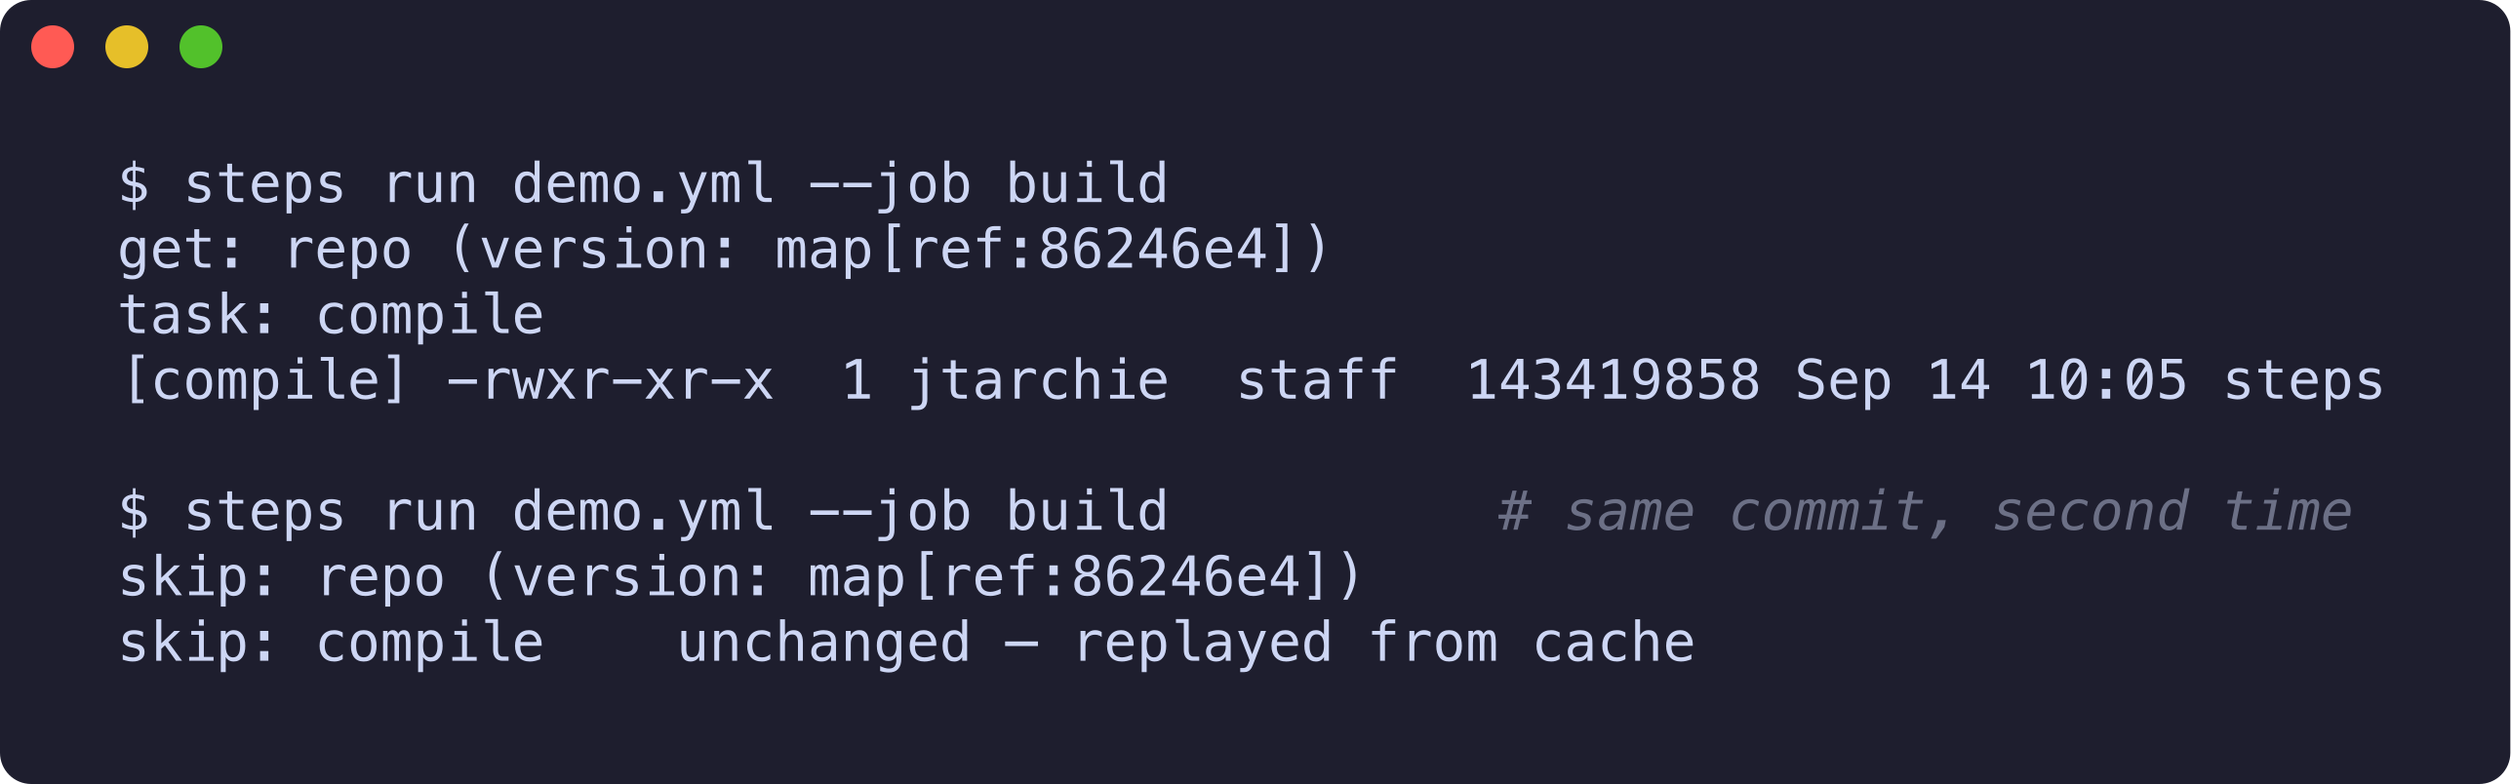
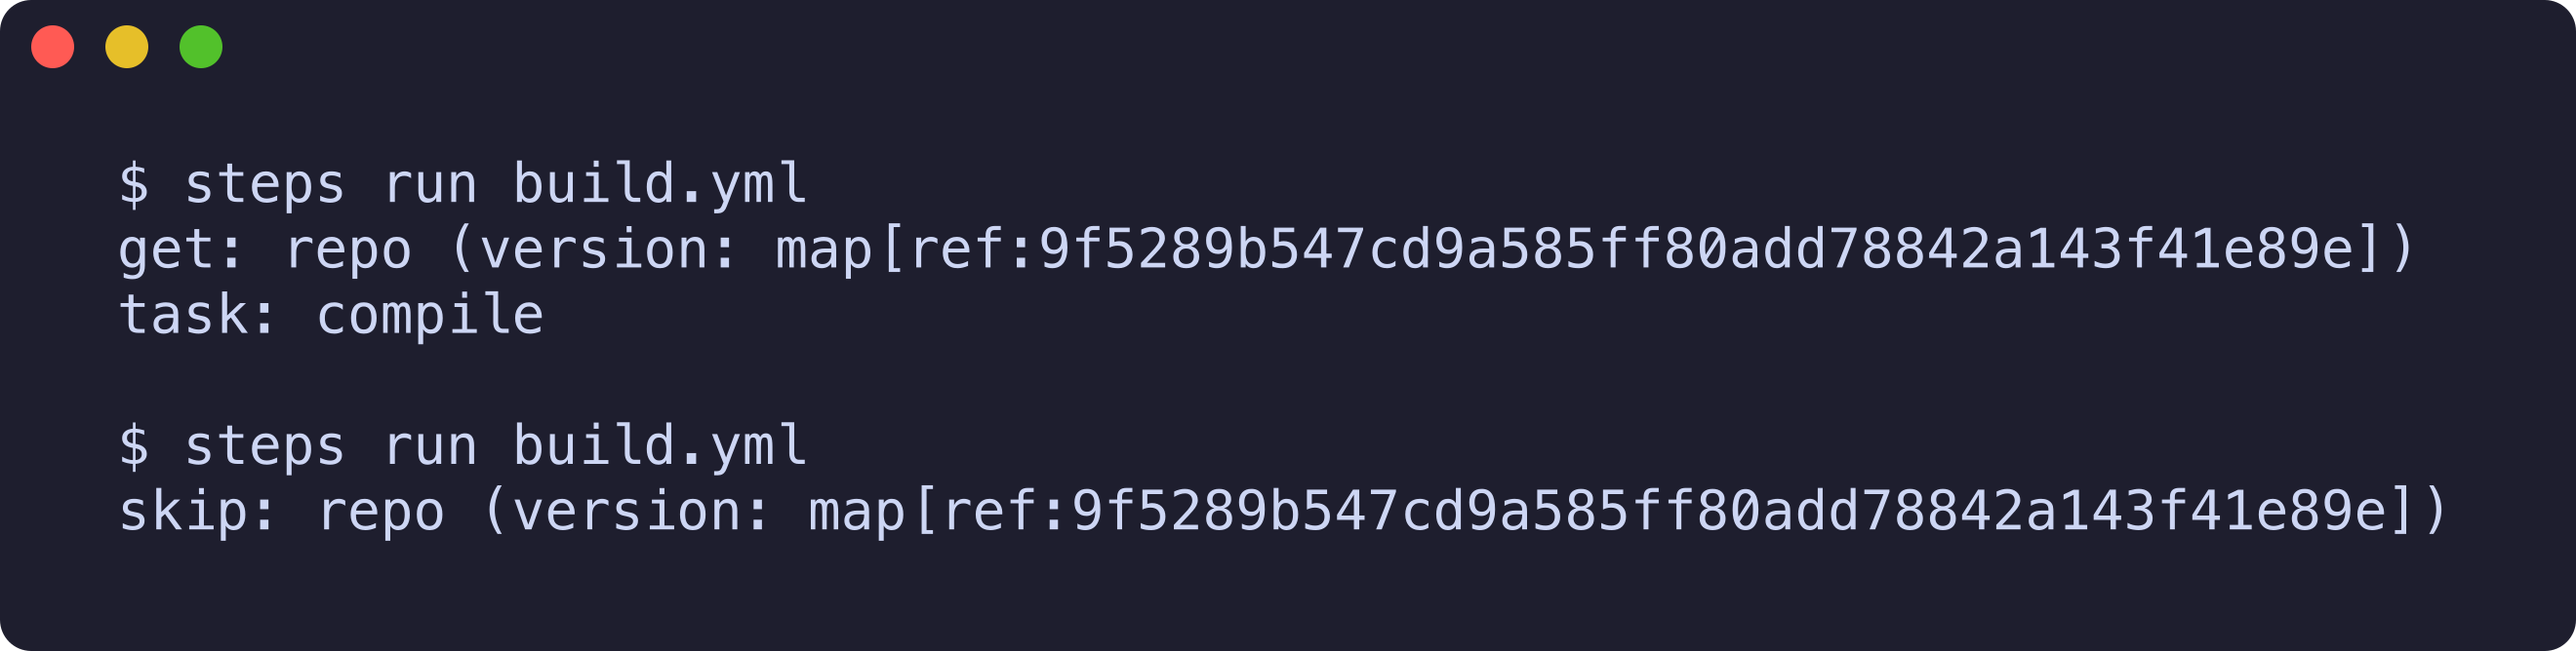
launch: fix review findings, swap in public-run screenshots
The PR review pipeline, run against this PR, found real defects: the
README's review.yml fell through from escalate into publish on a reject
verdict; release.yml's usage comment named the wrong --db path; the
exporter's EXIT trap could abort before cleaning up under set -e, and it
did not rewrite an absolute /docs/ link carrying an anchor. self-build.yml
now says the label is its trust boundary.

The transcript and graph images are captures of that public run and a
demo pipeline, and run-twice.png is the README's own build.yml run twice,
verbatim. The exporter maps README.md to index.html because the site's
host accepts lowercase paths only, and swaps chroma's inline styles for
classes, which took the exported docs from 1.0MB to 0.77MB.

Claude-Session: https://claude.ai/code/session_01GPpjjmooFkXtXFejSgrbkb

diff --git a/README.md b/README.md
@@ -60,7 +60,7 @@ jobs:
 
 Run it twice. The second run fetches nothing and compiles nothing: the commit, the command and the declared inputs hash the same, so every step is replayed from cache.
 
-![Terminal: the first run fetches and compiles; the identical second run prints skip for both steps](docs/images/run-twice.png)
+![Terminal: the first run fetches the repo and compiles; the identical second run prints one skip line, because the whole chain replays from cache](docs/images/run-twice.png)
 
 **3 · An agent, gated by things a model cannot talk its way past.**
 
@@ -92,7 +92,7 @@ jobs:
     assert:
       files: [report/summary.md]    # ...and it must have actually written it
   - task: escalate
-    run: echo paging a human
+    run: echo "the reviewer rejected this change" >&2 && exit 1   # fails the build, so publish never runs
   - task: publish
     inputs: [report]
     run: cat report/summary.md
